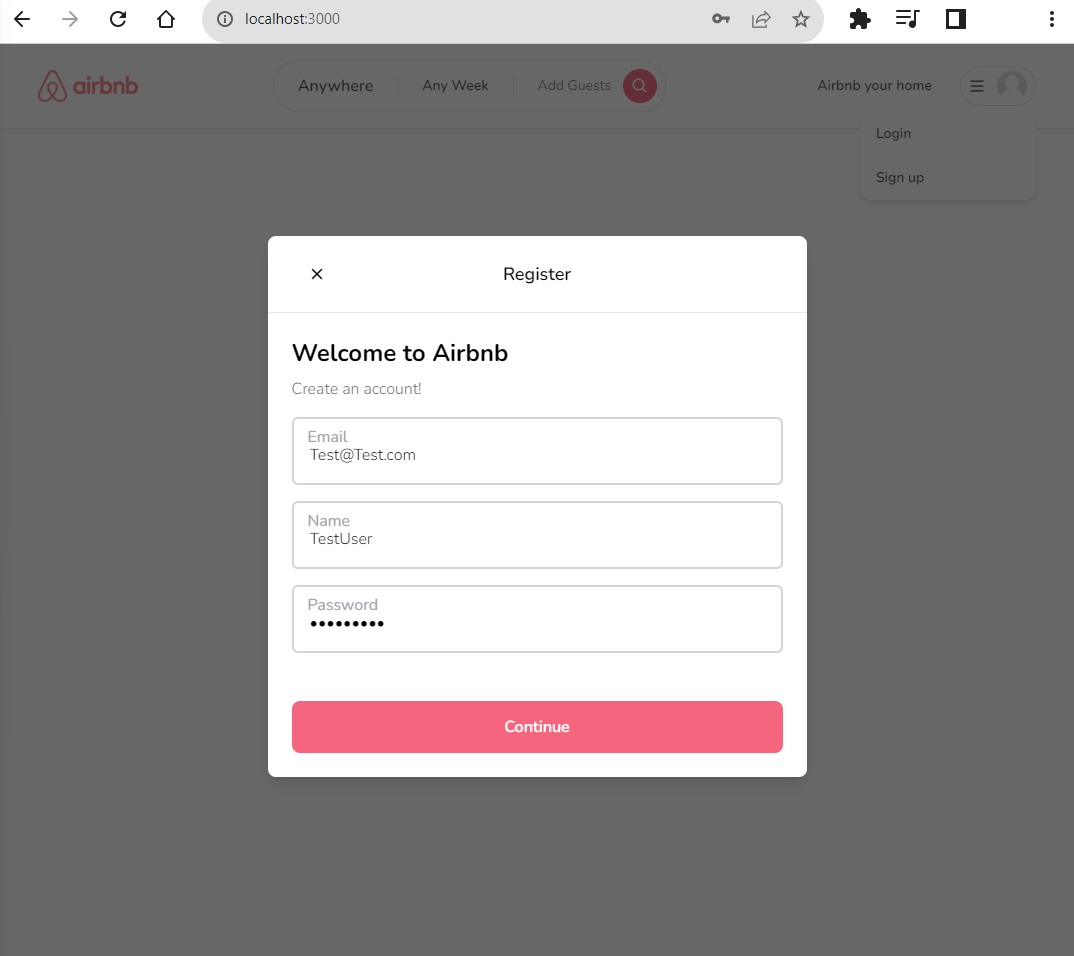
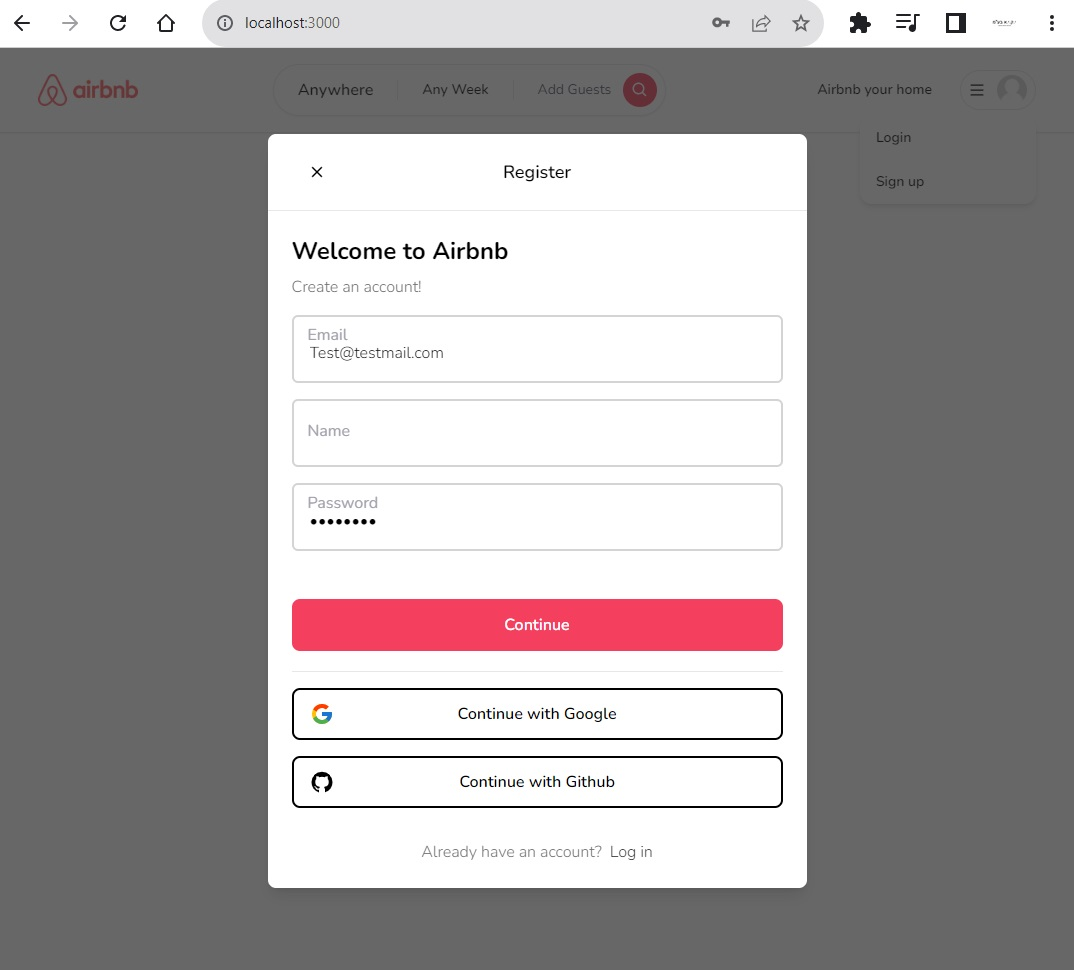
Add Google/Github login buttons.

Changed region(s): [[0.2458, 0.6067, 0.7682, 0.9404], [0.0, 0.0, 1.0, 0.3033], [0.2765, 0.3337, 0.7374, 0.5764]]

diff --git a/app/components/modals/register-modal.tsx b/app/components/modals/register-modal.tsx
@@ -12,12 +12,13 @@ import {
     useForm
 } from 'react-hook-form'
 
-import {toast} from 'react-hot-toast'
+import { toast } from 'react-hot-toast'
 
 import useRegisterModal from '@/app/hooks/useRegisterModal'
 import Modal from './modal'
 import Heading from '../heading'
 import Input from '../inputs/input'
+import Button from '../button'
 
 function RegisterModal() {
     const registerModal = useRegisterModal()
@@ -66,7 +67,7 @@ function RegisterModal() {
                 errors={errors}
                 required
             />
-                        <Input
+            <Input
                 id='name'
                 label='Name'
                 disabled={isLoading}
@@ -74,7 +75,7 @@ function RegisterModal() {
                 errors={errors}
                 required
             />
-                        <Input
+            <Input
                 id='password'
                 type='password'
                 label='Password'
@@ -86,6 +87,36 @@ function RegisterModal() {
         </div>
     )
 
+    const footerContent = (
+        <div className='flex flex-col gap-4 mt-3'>
+            <hr />
+            <Button
+                outline
+                label='Continue with Google'
+                icon={FcGoogle}
+                onClick={() => { }}
+            />
+            <Button
+                outline
+                label='Continue with Github'
+                icon={AiFillGithub}
+                onClick={() => { }}
+            />
+            <div className='text-neutral-500 text-center mt-4 font-light'>
+                <div className='justify-center flex flex-row items-center gap-2'>
+                    <div>
+                        Already have an account?
+                    </div>
+                    <div 
+                    onClick={registerModal.onClose}
+                    className='text-neutral-800 cursor-pointer hover:underline'>
+                        Log in
+                    </div>
+                </div>
+            </div>
+        </div>
+    )
+
     return <Modal
         disabled={isLoading}
         isOpen={registerModal.isOpen}
@@ -94,6 +125,7 @@ function RegisterModal() {
         onClose={registerModal.onClose}
         onSubmit={handleSubmit(onSubmit)}
         body={bodyContent}
+        footer={footerContent}
     />
 }
 

diff --git a/app/components/button.tsx b/app/components/button.tsx
@@ -5,7 +5,7 @@ import { IconType } from 'react-icons'
 interface ButtonProps {
     label: string
     onClick: (e: React.MouseEvent<HTMLButtonElement>) => void
-    disable?: boolean
+    disabled?: boolean
     outline?: boolean
     small?: boolean
     icon?: IconType
@@ -15,7 +15,7 @@ interface ButtonProps {
 const Button: React.FC<ButtonProps> = ({
     label,
     onClick,
-    disable,
+    disabled,
     outline,
     small,
     icon: Icon
@@ -23,7 +23,7 @@ const Button: React.FC<ButtonProps> = ({
     return (
         <button
         onClick={onClick}
-        disabled={disable}
+        disabled={disabled}
             className={`relative disabled:opacity-70 disabled:cursor-not-allowed rounded-lg hover:opacity-80 transition w-full
         ${outline ? 'bg-white border-black text-black' : 'bg-rose-500 border-rose-500 text-white'}
         ${small ? 'py-1 text-sm font-light border-[1px]' : 'py-3 text-md font-semibold border-2'}`}>

diff --git a/app/components/modals/modal.tsx b/app/components/modals/modal.tsx
@@ -13,7 +13,7 @@ interface ModalProps {
     body?: React.ReactElement
     footer?: React.ReactElement
     actionLabel: string
-    disabled?: boolean | undefined
+    disabled?: boolean
     secondaryAction?: () => void
     secondaryActionLabel?: string
 }
@@ -90,6 +90,7 @@ const Modal: React.FC<ModalProps> = ({
                                     onClick={handleSubmit}
                                 />
                             </div>
+                            {footer}
                         </div>
                     </div>
                 </div>
